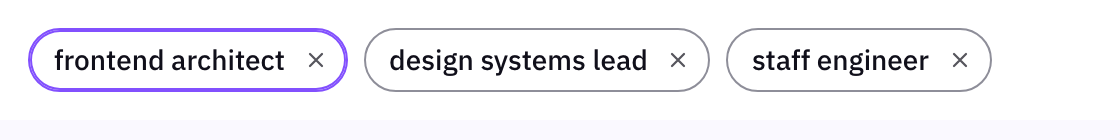
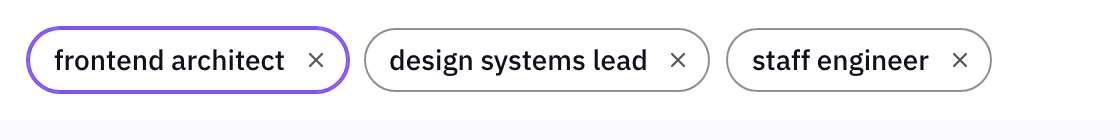
fix(ui): chip focus ring is an even 2px outside the fill; editing starts from the chip's look; more room before the ×
- Focus ring: the border plus an outer shadow, nothing inside the border, so a hover fill can't cover part of it and it
  is 2px all round. The forced-colours outline only applies in forced colours.
- Editing starts from how the chip looked (data-entry: ring, hover, plain): from keyboard focus the ring doesn't
  animate (no grey dip); from a click the hover fill fades out of the field; a clear × replaces a remove × as it was.
- The resting and editing chips have distinct keys, so React no longer reuses the resting chip's span as the editor
  wrapper (its focus ring faded out on it as a square box). Focus moves in a layout effect.
- With a ×, the text keeps 8px on its right (was 4px) and the × pulls back 4px, so chips are no wider.

Changed region(s): [[0.0312, 0.1714, 0.3125, 0.6857], [0.0, 0.3143, 0.0312, 0.5429]]

diff --git a/packages/ui/src/styles/chip.css b/packages/ui/src/styles/chip.css
@@ -102,9 +102,11 @@
   text-overflow: ellipsis;
   line-height: var(--sc-font-line-height-ui);
 }
+/* With a ×, the text keeps a little more room on its right (visible as the hover fill's edge), and the × pulls back by
+   the same amount, so the chip is no wider. */
 .sc-chip[data-removable] > .sc-chip__action,
 .sc-chip[data-removable] > .sc-chip__label {
-  padding-inline-end: var(--sc-spacing-2xs);
+  padding-inline-end: var(--sc-spacing-xs);
 }
 .sc-chip__remove,
 .sc-chip__clear {
@@ -114,7 +116,7 @@
   box-sizing: border-box;
   inline-size: calc(var(--_h) - 2 * var(--sc-spacing-2xs) - 2px);
   block-size: calc(var(--_h) - 2 * var(--sc-spacing-2xs) - 2px);
-  margin-inline-end: var(--sc-spacing-2xs);
+  margin-inline: calc(var(--sc-spacing-2xs) - var(--sc-spacing-xs)) var(--sc-spacing-2xs);
   padding: 0;
   border: 0;
   border-radius: var(--sc-radius-full);
@@ -213,29 +215,49 @@
   cursor: text;
   transition-duration: var(--sc-duration-base);
 }
-/* The focus ring is drawn inside the chip's edge: the border takes the focus colour and an inset shadow thickens it to
-   the focus width, so the chip keeps its outer size between editing and not (an outline grew it by 2px a side).
-   A transparent outline stays for forced colours, where box-shadows are dropped and the outline is painted. */
+/* From keyboard focus the chip was already ringed, so the ring must not animate: focusing the field forces a style
+   before focus lands, and a border or shadow transition would run from that unfocused style (a grey dip). */
+.sc-chip[data-editing][data-entry='ring'] {
+  transition-property: background-color, color;
+}
+/* The focus ring: the border takes the focus colour and a shadow outside it makes up the focus width. Nothing is drawn
+   inside the border, so a hover fill inside the chip can't cover part of the ring, and the ring is the same 2px all
+   the way round (an inset layer made it 3px where no fill covered it). No layout change between states. Forced
+   colours drop box-shadows, so an outline stands in there. */
 .sc-chip[data-editing]:focus-within,
 .sc-chip:has(> .sc-chip__action:focus-visible) {
   border-color: var(--sc-color-border-focus);
-  box-shadow: inset 0 0 0 calc(var(--sc-border-width-focus) - var(--sc-border-width-hairline))
+  box-shadow: 0 0 0 calc(var(--sc-border-width-focus) - var(--sc-border-width-hairline))
     var(--sc-color-border-focus);
-  outline: var(--sc-border-width-focus) solid transparent;
-  outline-offset: calc(-1 * var(--sc-border-width-focus));
 }
-/* Editing mounts a new chip, so the ring and the clear × ease in from the resting look (@starting-style) rather than
-   snapping on: the border from its resting colour, the shadow from nothing, the × faded and slightly small. Leaving
-   editing swaps the chip back at once. Off under reduced motion (below). */
-@starting-style {
-  .sc-chip[data-editing]:focus-within {
-    border-color: var(--_bd);
-    box-shadow: inset 0 0 0 0 var(--sc-color-border-focus);
+@media (forced-colors: active) {
+  .sc-chip[data-editing]:focus-within,
+  .sc-chip:has(> .sc-chip__action:focus-visible) {
+    outline: var(--sc-border-width-focus) solid transparent;
   }
-  .sc-chip[data-editing] .sc-chip__clear {
+}
+/* Editing mounts a new chip, so it starts from how the chip looked a moment before (`data-entry`, set when editing
+   starts) and eases to the editing look (@starting-style):
+   - ring (keyboard focus): already ringed, so nothing changes but the text becoming a field;
+   - hover (a click): the ring eases in from the resting border, and the hover fill fades out of the field;
+   - plain: the ring eases in.
+   A clear × takes the remove ×'s place as it was; it only fades and grows in on a chip that had no ×. Leaving editing
+   swaps the chip back at once. Off under reduced motion (below). */
+@starting-style {
+  .sc-chip[data-editing]:not([data-entry='ring']):focus-within {
+    border-color: var(--_bd);
+    box-shadow: 0 0 0 0 var(--sc-color-border-focus);
+  }
+  .sc-chip[data-editing][data-entry='hover'] > .sc-chip__field {
+    background-color: var(--_bg-hover);
+  }
+  .sc-chip[data-editing]:not([data-removable]) .sc-chip__clear {
     opacity: 0;
     scale: 0.6;
   }
+}
+.sc-chip[data-editing] > .sc-chip__field {
+  transition: background-color var(--sc-duration-base) var(--sc-ease-standard);
 }
 .sc-chip[data-editing] .sc-chip__clear {
   transition:
@@ -252,14 +274,17 @@
 .sc-chip__field {
   --_caret: 1px;
   display: inline-grid;
+  align-content: center;
+  align-self: stretch;
   min-inline-size: 0;
   padding-inline: var(--_px) calc(var(--_px) - var(--_caret));
+  border-radius: inherit;
 }
 .sc-chip > .sc-chip__icon + .sc-chip__field {
   padding-inline-start: var(--sc-spacing-2xs);
 }
 .sc-chip__field:has(+ .sc-chip__clear) {
-  padding-inline-end: calc(var(--sc-spacing-2xs) - var(--_caret));
+  padding-inline-end: calc(var(--sc-spacing-xs) - var(--_caret));
 }
 .sc-chip__field::after,
 .sc-chip__input {
@@ -304,6 +329,7 @@
 }
 @media (prefers-reduced-motion: reduce) {
   .sc-chip,
+  .sc-chip[data-editing] > .sc-chip__field,
   .sc-chip[data-editing] .sc-chip__clear {
     transition: none;
   }

diff --git a/packages/ui/src/components/Chip/EditableChip.tsx b/packages/ui/src/components/Chip/EditableChip.tsx
@@ -1,5 +1,5 @@
 import {
-  useEffect,
+  useLayoutEffect,
   useId,
   useRef,
   useState,
@@ -70,6 +70,8 @@ export function EditableChip({
   const [editing, setEditing] = useState(false);
   const [text, setText] = useState(value);
   const [error, setError] = useState<ReactNode>(null);
+  // How the chip looked when editing started, so the editing chip begins from the same look (chip.css).
+  const [entry, setEntry] = useState<'ring' | 'hover' | 'plain'>('plain');
   const button = useRef<HTMLButtonElement>(null);
   const field = useRef<HTMLInputElement>(null);
   // Set when Enter or Escape closes the field, so focus goes back to the chip; a save on blur leaves it be.
@@ -78,7 +80,9 @@ export function EditableChip({
   const done = useRef(false);
   const errorId = useId();
 
-  useEffect(() => {
+  // A layout effect, so focus is in the field before the editing chip first paints: it shows its ring from the first
+  // frame rather than painting once unfocused (a grey frame between the resting ring and the editing one).
+  useLayoutEffect(() => {
     if (editing) {
       // The caret goes at the end: an edit is more often a tweak than a retype.
       const el = field.current;
@@ -92,6 +96,13 @@ export function EditableChip({
   }, [editing]);
 
   const start = () => {
+    setEntry(
+      matches(button.current, ':focus-visible')
+        ? 'ring'
+        : matches(button.current, ':hover')
+          ? 'hover'
+          : 'plain',
+    );
     setText(value);
     setError(null);
     done.current = false;
@@ -135,8 +146,17 @@ export function EditableChip({
 
   if (editing) {
     return (
-      <span className={cx('sc-chip-editor', className)} data-editing="">
-        <span className="sc-chip" {...shared} data-editing="" data-invalid={error ? '' : undefined}>
+      // Distinct keys: otherwise React reuses the resting chip's span as this wrapper, and the chip's focus ring
+      // transitions out on it as a square box.
+      <span key="editor" className={cx('sc-chip-editor', className)} data-editing="">
+        <span
+          className="sc-chip"
+          {...shared}
+          data-editing=""
+          data-entry={entry}
+          data-removable={onRemove ? '' : undefined}
+          data-invalid={error ? '' : undefined}
+        >
           {iconEl}
           <span className="sc-chip__field" data-value={text}>
             <input
@@ -202,6 +222,7 @@ export function EditableChip({
   };
   return (
     <span
+      key="chip"
       className={cx('sc-chip', className)}
       {...shared}
       data-removable={onRemove ? '' : undefined}
@@ -238,4 +259,13 @@ export function EditableChip({
       ) : null}
     </span>
   );
+}
+
+/** `element.matches`, false where the selector isn't supported (older engines, jsdom). */
+function matches(element: Element | null, selector: string) {
+  try {
+    return element?.matches(selector) ?? false;
+  } catch {
+    return false;
+  }
 }
